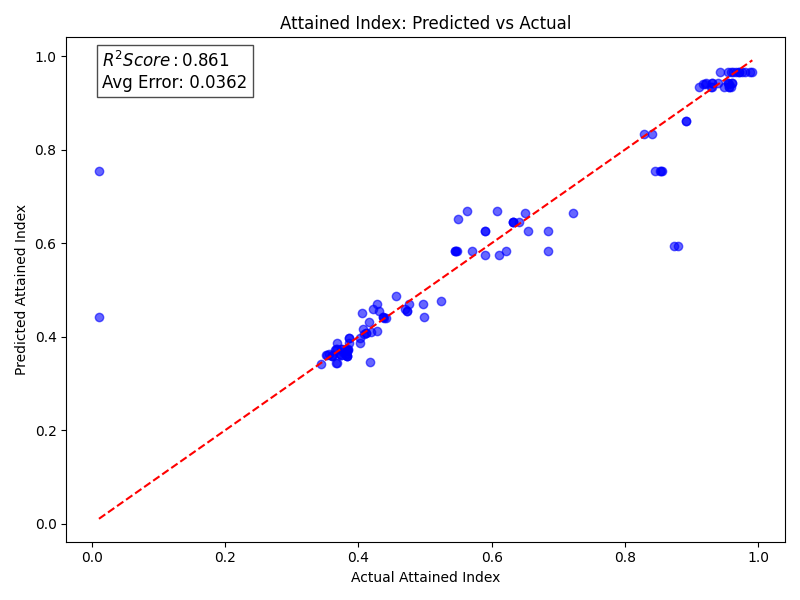
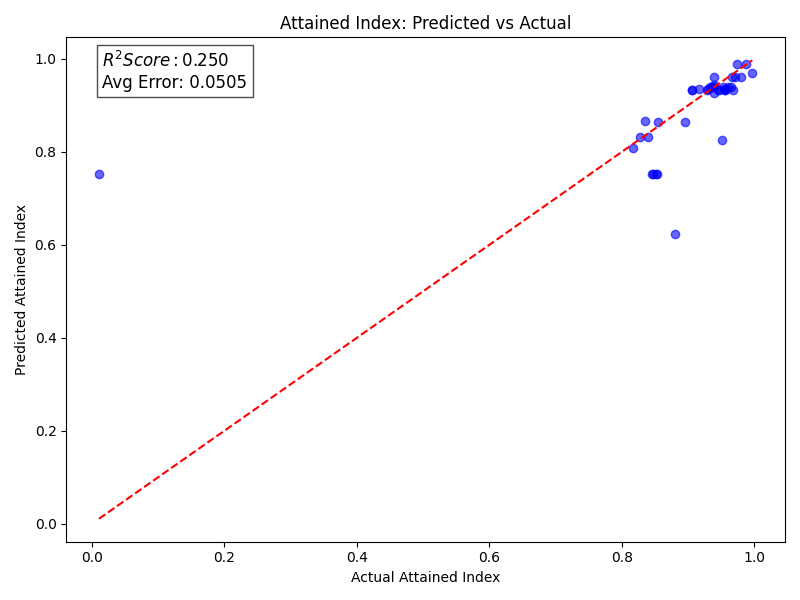
Code Refactoring

diff --git a/models/random_forest_baseline.py b/models/random_forest_baseline.py
@@ -5,12 +5,64 @@ import pandas as pd
 import matplotlib.pyplot as plt
 from sklearn.ensemble import RandomForestRegressor
 from sklearn.metrics import r2_score, mean_absolute_error
-from sklearn.model_selection import train_test_split, learning_curve
+from sklearn.model_selection import GroupKFold, learning_curve
+
+
+# Save the model
+def save_model(model):
+    with open("model.pkl", "wb") as f:
+        pickle.dump(model, f)
+
+
+def plot_results(model, X, y, y_test, preds, errors, r2, mae):
+    # Accuracy with R2 Label
+    plt.figure(figsize=(8, 6))
+    plt.scatter(y_test, preds, alpha=0.6, color="blue")
+    plt.plot([y_test.min(), y_test.max()], [y_test.min(), y_test.max()], "r--")
+    plt.text(
+        0.05,
+        0.9,
+        f"$R^2 Score: {r2:.3f}$\nAvg Error: {mae:.4f}",
+        transform=plt.gca().transAxes,
+        fontsize=12,
+        bbox=dict(facecolor="white", alpha=0.7),
+    )
+    plt.title("Attained Index: Predicted vs Actual")
+    plt.xlabel("Actual Attained Index")
+    plt.ylabel("Predicted Attained Index")
+    plt.tight_layout()
+    plt.savefig("plots/rf_attained_accuracy_v3.png")
+
+    # R2 Learning Curve
+    train_sizes, train_scores, test_scores = learning_curve(
+        model, X, y, cv=5, scoring="r2", train_sizes=np.linspace(0.1, 1.0, 5)
+    )
+    plt.figure(figsize=(8, 6))
+    plt.plot(train_sizes, np.mean(train_scores, axis=1), "o-", label="Training R2")
+    plt.plot(train_sizes, np.mean(test_scores, axis=1), "o-", label="Validation R2")
+    plt.title("R2 Performance vs Data Size")
+    plt.xlabel("Number of Samples")
+    plt.ylabel("R2 Score")
+    plt.legend()
+    plt.grid(True, alpha=0.3)
+    plt.tight_layout()
+    plt.savefig("plots/rf_learning_curve_v3.png")
+
+    # Residuals
+    plt.figure(figsize=(8, 6))
+    plt.scatter(preds, errors, alpha=0.6, color="purple")
+    plt.axhline(0, color="black", linestyle="-")
+    plt.title("Residuals (Error Patterns)")
+    plt.xlabel("Predicted Attained Index")
+    plt.ylabel("Error")
+    plt.tight_layout()
+    plt.savefig("plots/rf_attained_residuals_v3.png")
+
+    plt.show()
+
 
 # Load Data and Initial Clean
-df = pd.read_csv(
-    "C:/Users/student02/data/all_ships_all_conditions_v4.csv"
-)
+df = pd.read_csv("C:/Users/student02/data/all_ships_light_v4.csv")
 cols_to_drop = [
     "target_margin",
     "target_attained_index",
@@ -20,6 +72,8 @@ cols_to_drop = [
 
 X = df.select_dtypes(include=["number"]).drop(columns=cols_to_drop, errors="ignore")
 y = df["target_attained_index"]
+
+groups = df["ship_version_id"]
 
 # Load the hyperparameters configuration.
 config = {}
@@ -32,19 +86,33 @@ temp_rf = RandomForestRegressor(**low_impact_random_forest_params).fit(X, y)
 important_cols = X.columns[temp_rf.feature_importances_ > 0.01]
 X = X[important_cols]
 
-# Train/Test Split
-X_train, X_test, y_train, y_test = train_test_split(
-    X, y, test_size=0.2, random_state=42
-)
+gkf = GroupKFold(n_splits=5)
+r2_scores = []
+mae_scores = []
+for fold, (train_idx, test_idx) in enumerate(gkf.split(X, y, groups=groups)):
+    X_train, X_test = X.iloc[train_idx], X.iloc[test_idx]
+    y_train, y_test = y.iloc[train_idx], y.iloc[test_idx]
 
-# Model Training
-random_forest_params = config["RandomForestRegressor"]
-model = RandomForestRegressor(**random_forest_params)
-model.fit(X_train, y_train)
+    # Model Training
+    random_forest_params = config["RandomForestRegressor"]
+    model = RandomForestRegressor(**random_forest_params)
+    model.fit(X_train, y_train)
 
-# Save the model
-with open("model.pkl", "wb") as f:
-    pickle.dump(model, f)
+    # Evaluate Performance
+    predictions = model.predict(X_test)
+    accuracy = r2_score(y_test, predictions)
+    mae = mean_absolute_error(y_test, predictions)
+
+    r2_scores.append(accuracy)
+    mae_scores.append(mae)
+
+    print(f"Fold {fold + 1}")
+    print(f"R2: {predictions}")
+    print(f"MAE: {mae}")
+
+print(f"Model Performance")
+print(f"Mean R2: {sum(r2_scores) / len(r2_scores):.4f}")
+print(f"Mean MAE: {sum(mae_scores) / len(mae_scores):.4f}")
 
 # Predictions and Errors
 preds = model.predict(X_test)
@@ -52,54 +120,4 @@ r2 = r2_score(y_test, preds)
 mae = mean_absolute_error(y_test, preds)
 errors = y_test - preds
 
-# Accuracy with R2 Label
-plt.figure(figsize=(8, 6))
-plt.scatter(y_test, preds, alpha=0.6, color="blue")
-plt.plot([y_test.min(), y_test.max()], [y_test.min(), y_test.max()], "r--")
-plt.text(
-    0.05,
-    0.9,
-    f"$R^2 Score: {r2:.3f}$\nAvg Error: {mae:.4f}",
-    transform=plt.gca().transAxes,
-    fontsize=12,
-    bbox=dict(facecolor="white", alpha=0.7),
-)
-plt.title("Attained Index: Predicted vs Actual")
-plt.xlabel("Actual Attained Index")
-plt.ylabel("Predicted Attained Index")
-plt.tight_layout()
-plt.savefig(
-    "plots/rf_attained_accuracy_v3.png"
-)
-
-# R2 Learning Curve
-train_sizes, train_scores, test_scores = learning_curve(
-    model, X, y, cv=5, scoring="r2", train_sizes=np.linspace(0.1, 1.0, 5)
-)
-plt.figure(figsize=(8, 6))
-plt.plot(train_sizes, np.mean(train_scores, axis=1), "o-", label="Training R2")
-plt.plot(train_sizes, np.mean(test_scores, axis=1), "o-", label="Validation R2")
-plt.title("R2 Performance vs Data Size")
-plt.xlabel("Number of Samples")
-plt.ylabel("R2 Score")
-plt.legend()
-plt.grid(True, alpha=0.3)
-plt.tight_layout()
-plt.savefig(
-    "plots/rf_learning_curve_v3.png"
-)
-
-# Residuals
-plt.figure(figsize=(8, 6))
-plt.scatter(preds, errors, alpha=0.6, color="purple")
-plt.axhline(0, color="black", linestyle="-")
-plt.title("Residuals (Error Patterns)")
-plt.xlabel("Predicted Attained Index")
-plt.ylabel("Error")
-plt.tight_layout()
-plt.savefig(
-    "plots/rf_attained_residuals_v3.png"
-)
-
-plt.show()
-print(f"Final R2 for Attained Index: {r2:.3f}")
+plot_results(model, X, y, y_test, preds, errors, r2, mae)

diff --git a/models/model_leave_one_out.py b/models/model_leave_one_out.py
@@ -6,9 +6,55 @@ from xgboost import XGBRegressor
 from sklearn.model_selection import learning_curve
 from sklearn.metrics import r2_score, mean_absolute_error
 
-df = pd.read_csv(
-    "C:/Users/student01/Desktop/data/all_ships_multiple_features_light_v3.csv"
-)
+
+def plot_results(model, X, y, y_test, results_df, preds, errors):
+    # Accuracy with R2 Label
+    plt.figure(figsize=(8, 6))
+    plt.scatter(y_test, preds, alpha=0.6, color="blue")
+    plt.plot([y_test.min(), y_test.max()], [y_test.min(), y_test.max()], "r--")
+    plt.text(
+        0.05,
+        0.9,
+        f"$R^2 Score: {results_df['r2'].mean():.3f}$\nAvg Error: {results_df['mae'].mean():.4f}",
+        transform=plt.gca().transAxes,
+        fontsize=12,
+        bbox=dict(facecolor="white", alpha=0.7),
+    )
+    plt.title("Attained Index: Predicted vs Actual")
+    plt.xlabel("Actual Attained Index")
+    plt.ylabel("Predicted Attained Index")
+    plt.tight_layout()
+    plt.savefig("plots/xgb_attained_accuracy_one_out_v3.png")
+
+    # R2 Learning Curve
+    train_sizes, train_scores, test_scores = learning_curve(
+        model, X, y, cv=5, scoring="r2", train_sizes=np.linspace(0.1, 1.0, 5)
+    )
+    plt.figure(figsize=(8, 6))
+    plt.plot(train_sizes, np.mean(train_scores, axis=1), "o-", label="Training R2")
+    plt.plot(train_sizes, np.mean(test_scores, axis=1), "o-", label="Validation R2")
+    plt.title("R2 Performance vs Data Size")
+    plt.xlabel("Number of Samples")
+    plt.ylabel("R2 Score")
+    plt.legend()
+    plt.grid(True, alpha=0.3)
+    plt.tight_layout()
+    plt.savefig("plots/xgb_learning_curve_one_out_v3.png")
+
+    # Residuals
+    plt.figure(figsize=(8, 6))
+    plt.scatter(preds, errors, alpha=0.6, color="purple")
+    plt.axhline(0, color="black", linestyle="-")
+    plt.title("Residuals (Error Patterns)")
+    plt.xlabel("Predicted Attained Index")
+    plt.ylabel("Error")
+    plt.tight_layout()
+    plt.savefig("plots/xgb_attained_residuals_one_out_v3.png")
+
+    plt.show()
+
+
+df = pd.read_csv("C:/Users/student02/data/all_ships_light_v4.csv")
 
 features = [
     "draft",
@@ -80,54 +126,5 @@ for test_ship in ships:
 
 results_df = pd.DataFrame(results)
 
-# Accuracy with R2 Label
-plt.figure(figsize=(8, 6))
-plt.scatter(y_test, preds, alpha=0.6, color="blue")
-plt.plot([y_test.min(), y_test.max()], [y_test.min(), y_test.max()], "r--")
-plt.text(
-    0.05,
-    0.9,
-    f"$R^2 Score: {results_df['r2'].mean():.3f}$\nAvg Error: {results_df['mae'].mean():.4f}",
-    transform=plt.gca().transAxes,
-    fontsize=12,
-    bbox=dict(facecolor="white", alpha=0.7),
-)
-plt.title("Attained Index: Predicted vs Actual")
-plt.xlabel("Actual Attained Index")
-plt.ylabel("Predicted Attained Index")
-plt.tight_layout()
-plt.savefig(
-    "C:/Users/student01/Desktop/rug-project/pias/models/plots/xgb_attained_accuracy_one_out_v3.png"
-)
-
-# R2 Learning Curve
-train_sizes, train_scores, test_scores = learning_curve(
-    model, X, y, cv=5, scoring="r2", train_sizes=np.linspace(0.1, 1.0, 5)
-)
-plt.figure(figsize=(8, 6))
-plt.plot(train_sizes, np.mean(train_scores, axis=1), "o-", label="Training R2")
-plt.plot(train_sizes, np.mean(test_scores, axis=1), "o-", label="Validation R2")
-plt.title("R2 Performance vs Data Size")
-plt.xlabel("Number of Samples")
-plt.ylabel("R2 Score")
-plt.legend()
-plt.grid(True, alpha=0.3)
-plt.tight_layout()
-plt.savefig(
-    "C:/Users/student01/Desktop/rug-project/pias/models/plots/xgb_learning_curve_one_out_v3.png"
-)
-
-# Residuals
-plt.figure(figsize=(8, 6))
-plt.scatter(preds, errors, alpha=0.6, color="purple")
-plt.axhline(0, color="black", linestyle="-")
-plt.title("Residuals (Error Patterns)")
-plt.xlabel("Predicted Attained Index")
-plt.ylabel("Error")
-plt.tight_layout()
-plt.savefig(
-    "C:/Users/student01/Desktop/rug-project/pias/models/plots/xgb_attained_residuals_one_out_v3.png"
-)
-
-plt.show()
+# plot_results(model, X, y, y_test, results_df, preds, errors)
 print(f"Final R2 for Attained Index: {results_df['r2'].mean():.3f}")

diff --git a/models/xgb_stability_baseline.py b/models/xgb_stability_baseline.py
@@ -6,7 +6,7 @@ from sklearn.model_selection import GroupKFold
 from sklearn.metrics import r2_score, mean_absolute_error
 
 # Load Data
-df = pd.read_csv("C:/Users/student01/Desktop/data/all_ships_baseline.csv")
+df = pd.read_csv("C:/Users/student02/data/all_ships_light_v4.csv")
 
 # Define Features (X) and Target (y)
 features = [
@@ -40,11 +40,7 @@ for fold, (train_idx, test_idx) in enumerate(gkf.split(X, y, groups=groups)):
     y_train, y_test = y.iloc[train_idx], y.iloc[test_idx]
 
     model = XGBRegressor(**xgb_params)
-    model.fit(
-        X_train, 
-        y_train,
-        eval_set=[(X_test, y_test)],
-        verbose=False)
+    model.fit(X_train, y_train, eval_set=[(X_test, y_test)], verbose=False)
     print("Model training complete.")
 
     # Evaluate Performance
